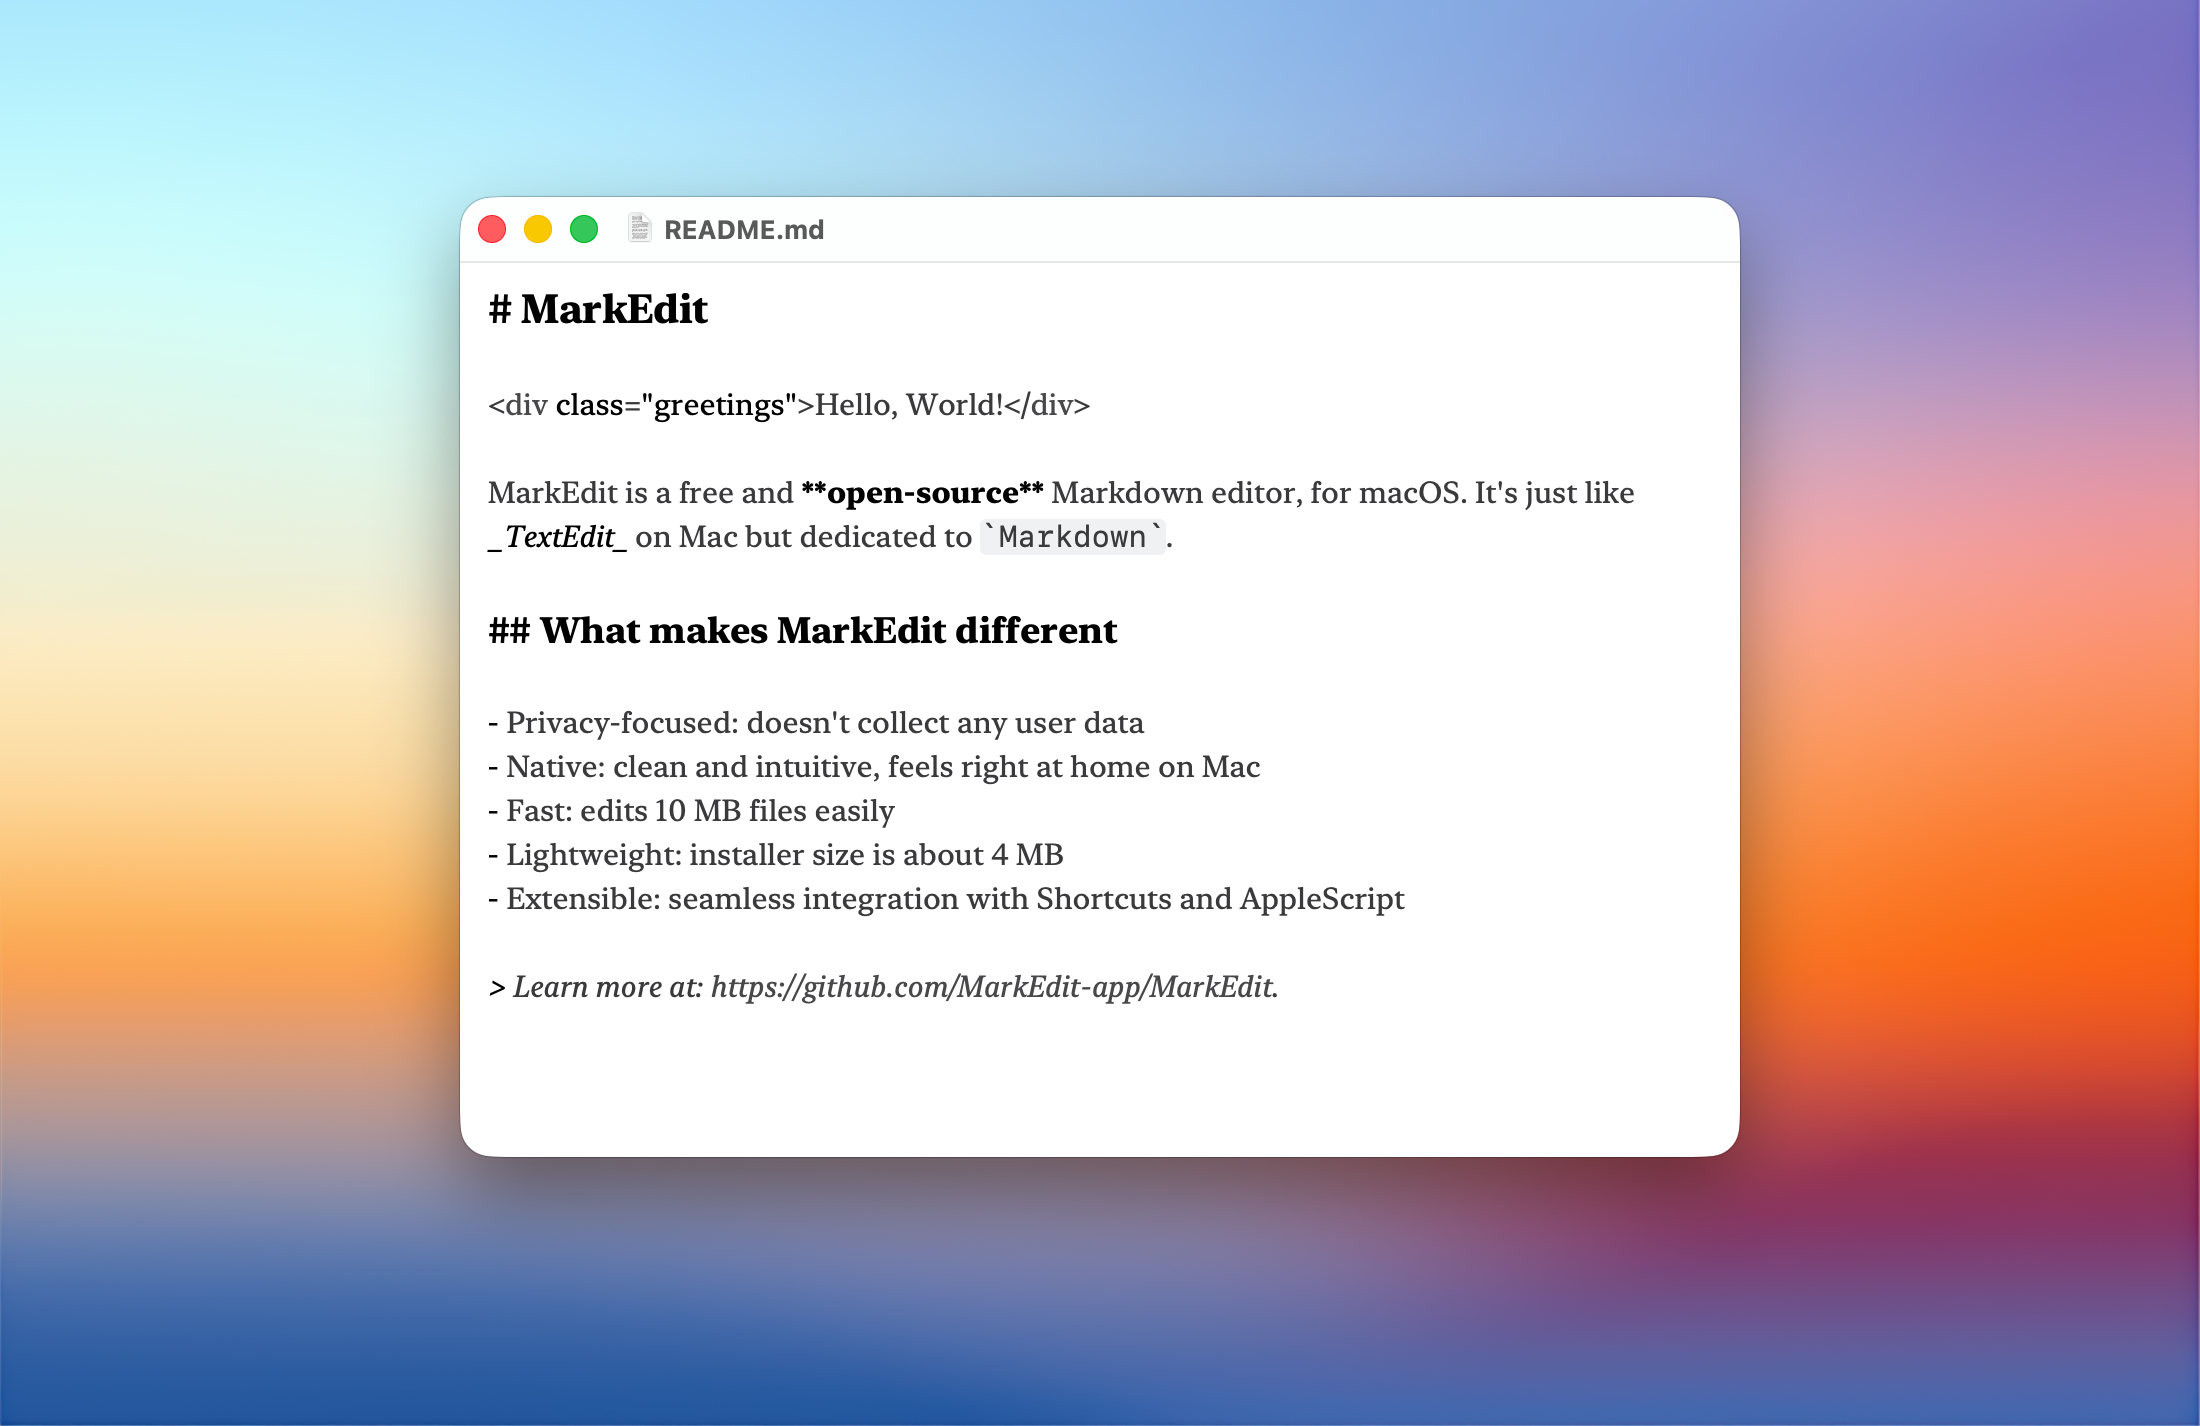
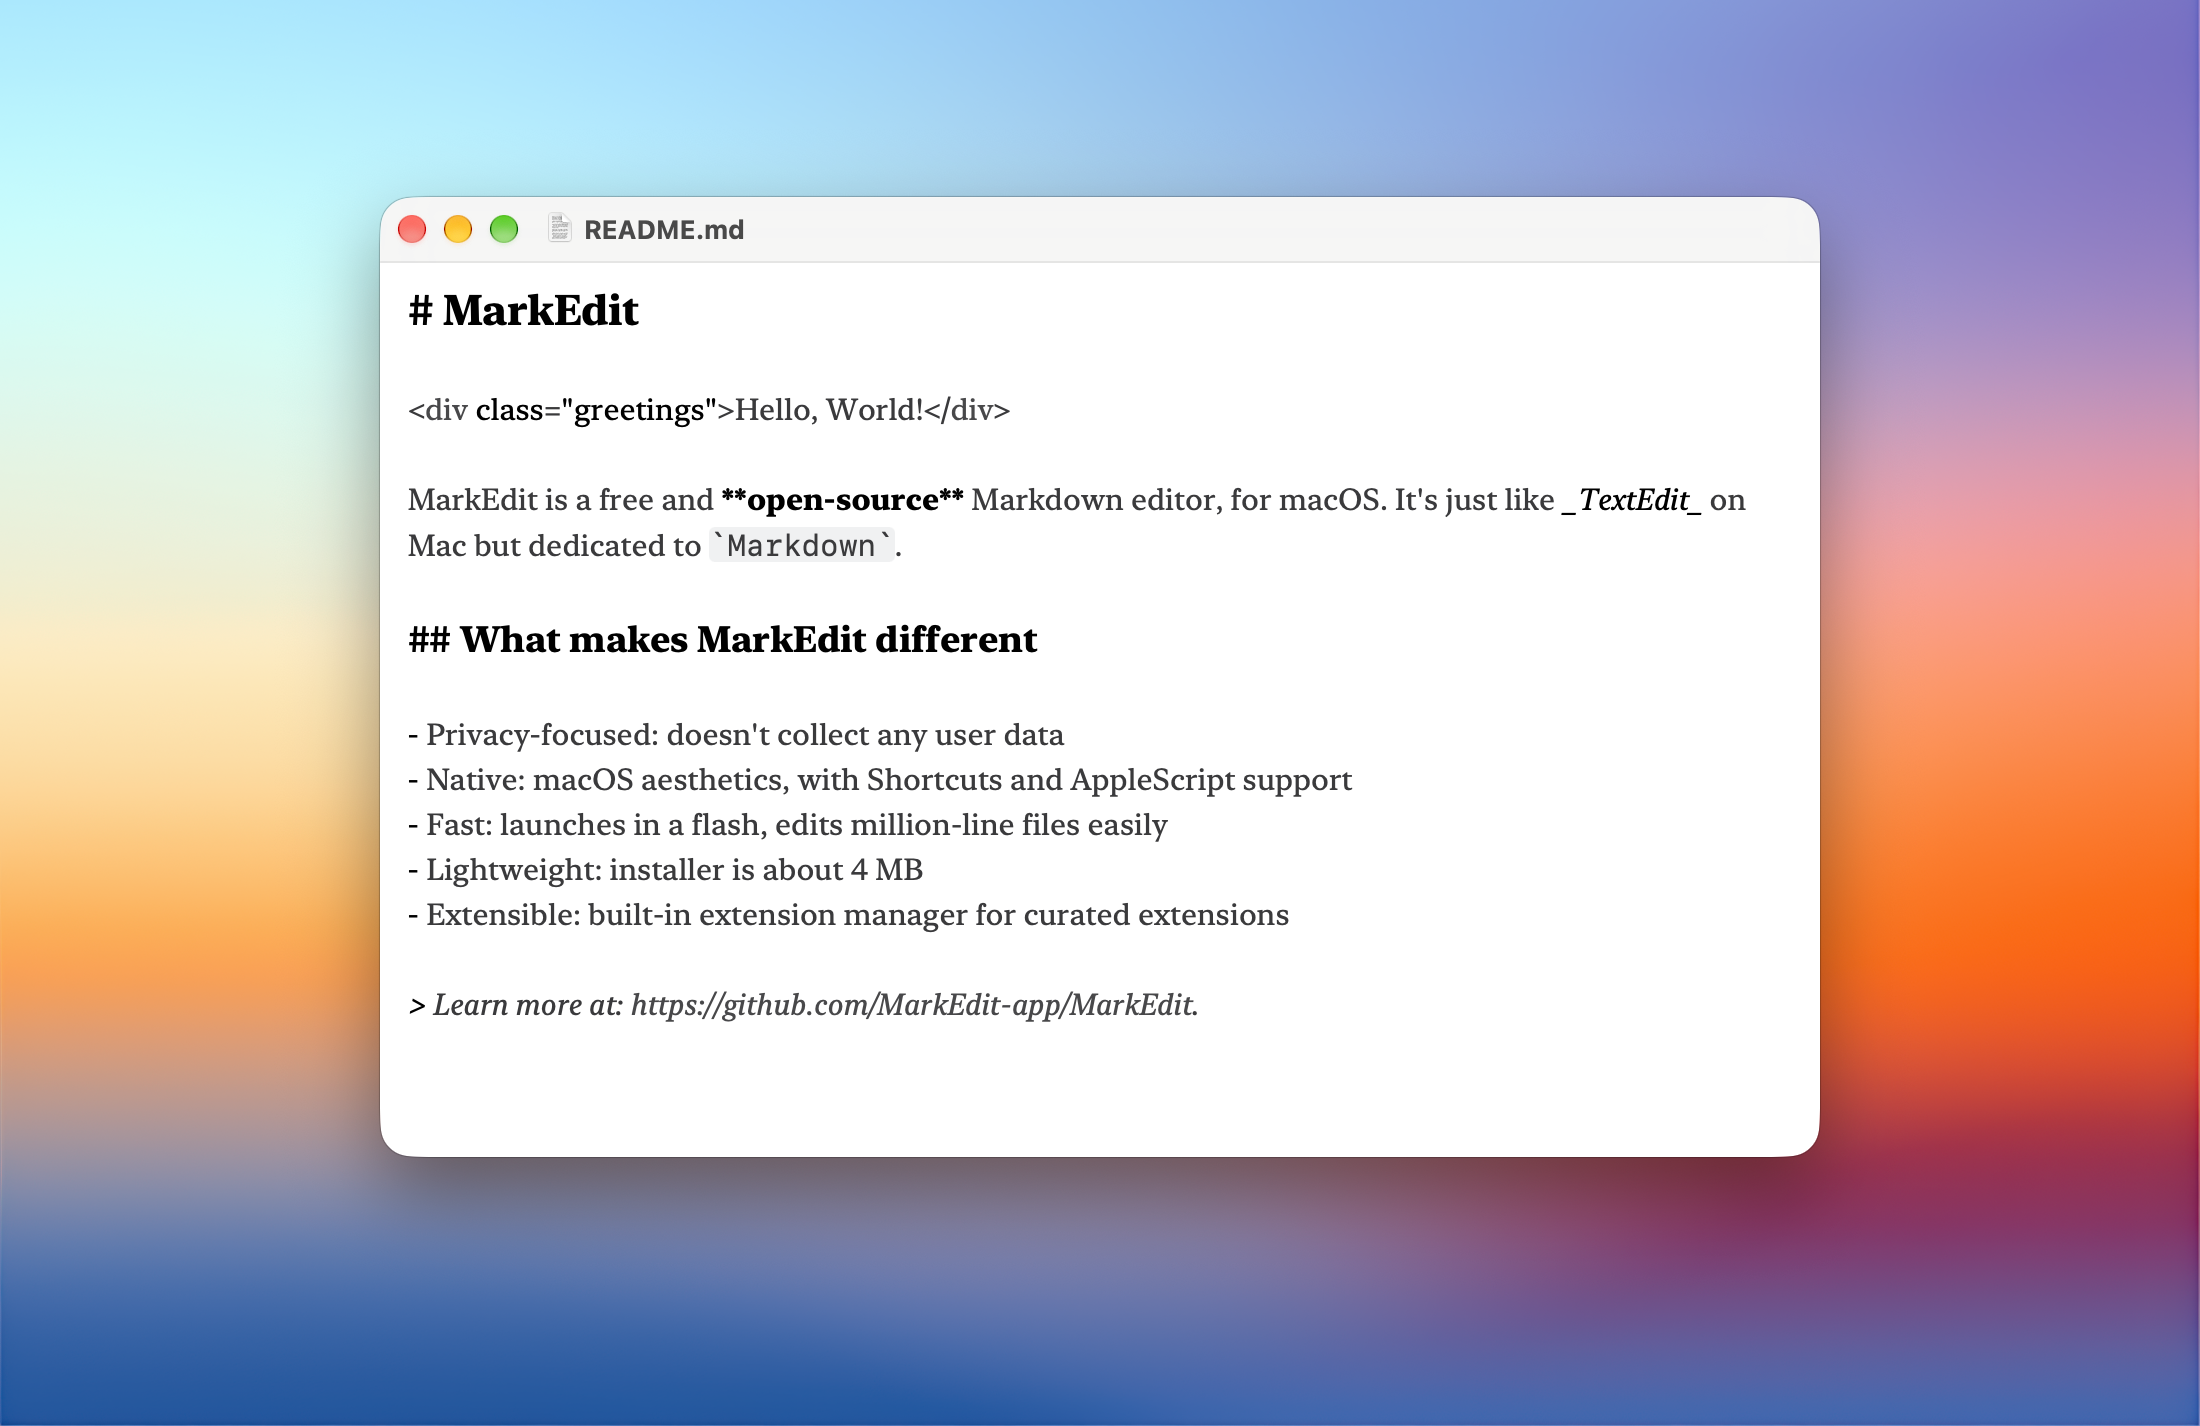
Refresh README for Golden Gate design changes

Changed region(s): [[0.1545, 0.1234, 0.8655, 0.8331]]

diff --git a/MarkEditMac/Sources/Main/AppRuntimeConfig.swift b/MarkEditMac/Sources/Main/AppRuntimeConfig.swift
@@ -29,6 +29,12 @@ enum AppRuntimeConfig {
       ///
       /// Custom values are used as-is and need not follow these relationships.
       var material: (backdropBlur: Double, tintedOpacity: Double, plainOpacity: Double) {
+      #if DEBUG
+        if ProcessInfo.processInfo.environment["DEBUG_TAKING_SCREENSHOTS"] == "YES" {
+          return (16, 0.9, 0.6)
+        }
+      #endif
+
         switch self {
         case .readable: return (16, 0.9, 0.6)
         case .default: return (8, 0.7, 0.4)

diff --git a/README.md b/README.md
@@ -34,14 +34,14 @@ _For perspective: at just 4 MB, MarkEdit is much smaller than Electron apps. Han
 ## What makes MarkEdit different
 
 - Privacy-focused: doesn't collect any user data
-- Native: clean and intuitive, feels right at home on Mac
-- Fast: edits 10 MB files easily
-- Lightweight: installer size is about 4 MB
-- Extensible: seamless integration with Shortcuts and AppleScript
+- Native: macOS aesthetics, with Shortcuts and AppleScript support
+- Fast: launches in a flash, edits million-line files easily
+- Lightweight: installer is about 4 MB
+- Extensible: built-in extension manager for curated extensions
 
 MarkEdit strictly follows the [GFM specification](https://github.github.com/gfm/), with no proprietary syntax or invented features. Complex editing like multi-caret and code folding is built on [CodeMirror 6](https://codemirror.net/) for correctness and performance, consistently faster than most macOS editors. UI controls remain native to macOS in both aesthetics and behavior, including force-touch word lookup, inline predictions, and Writing Tools.
 
-Customization is built around CSS, JavaScript, and [CodeMirror extensions](https://github.com/MarkEdit-app/MarkEdit-api). Official extensions include [MarkEdit-preview](https://markedit-app.github.io/extensions/#markedit-preview) for a preview pane, [MarkEdit-theming](https://github.com/MarkEdit-app/MarkEdit-theming) for custom themes, and [MarkEdit-ai-writer](https://markedit-app.github.io/extensions/#markedit-ai-writer) for Apple Intelligence on macOS Tahoe or later.
+Customization is built around CSS, JavaScript, and [CodeMirror extensions](https://github.com/MarkEdit-app/MarkEdit-api). Official extensions let you preview Markdown, hide syntax, customize themes, write with AI, edit tables visually, and much more.
 
 <img src="./Screenshots/extensions.png" width="800" alt="MarkEdit Extensions">
 
